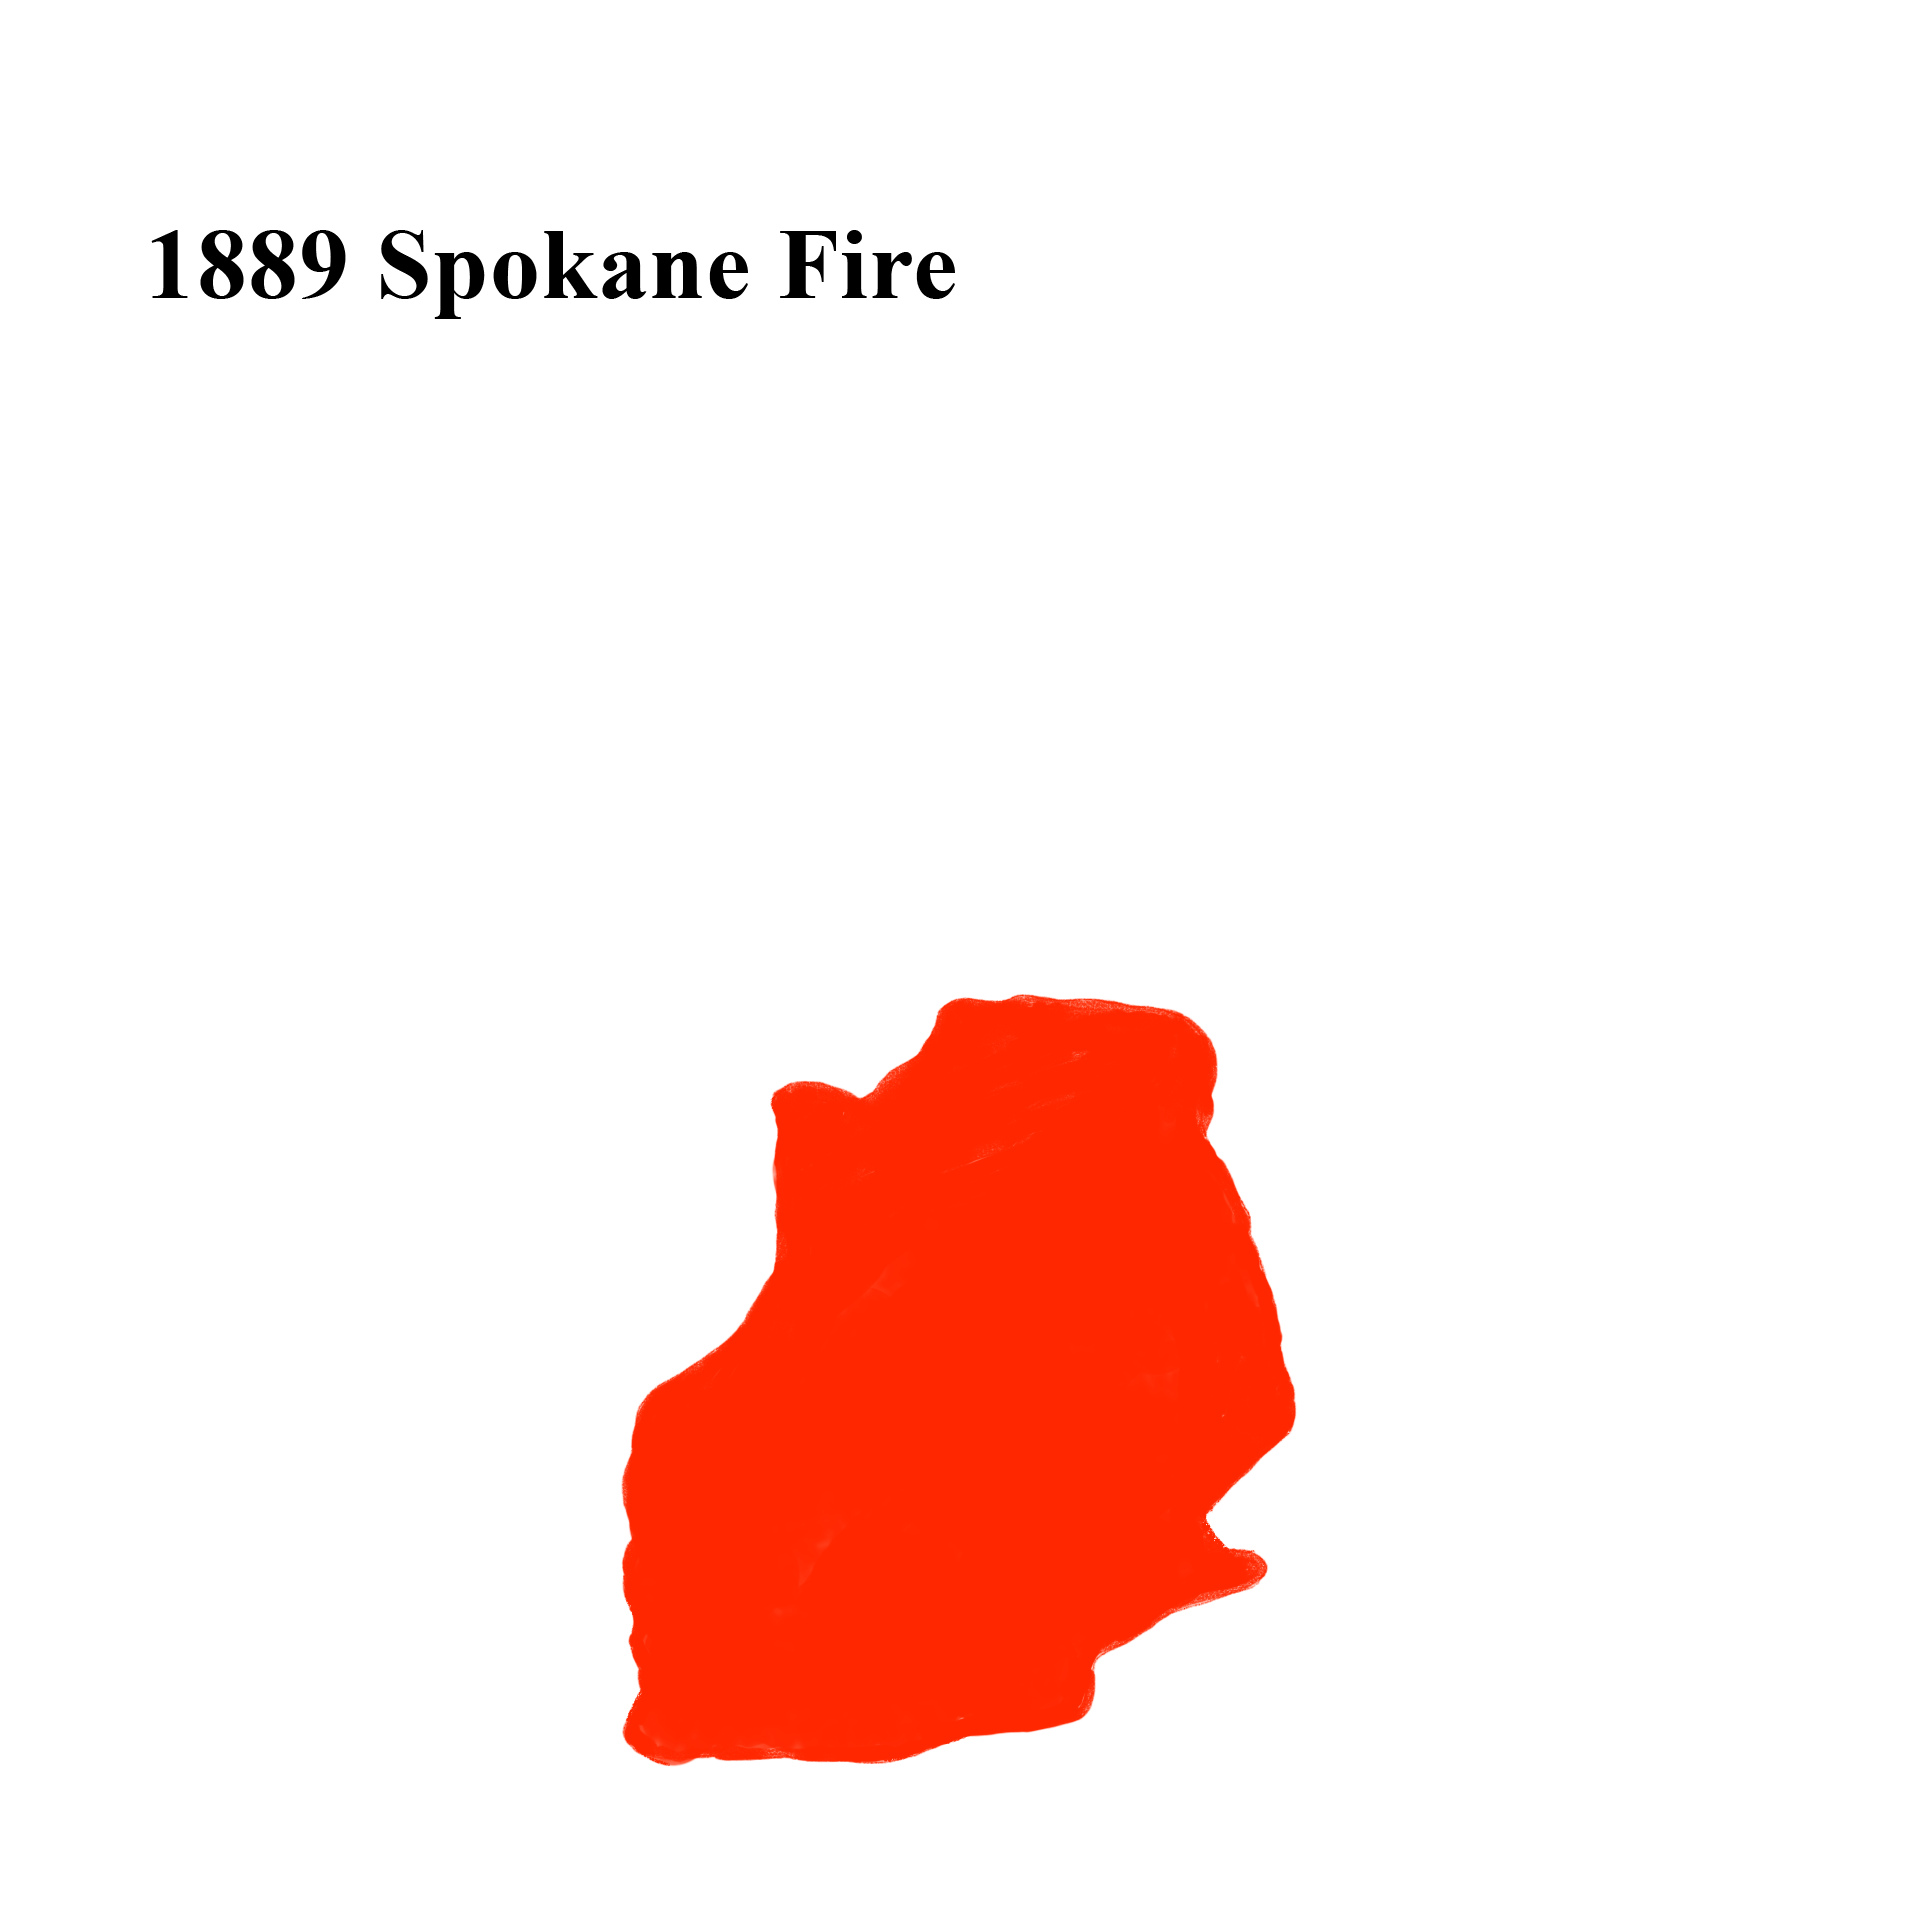
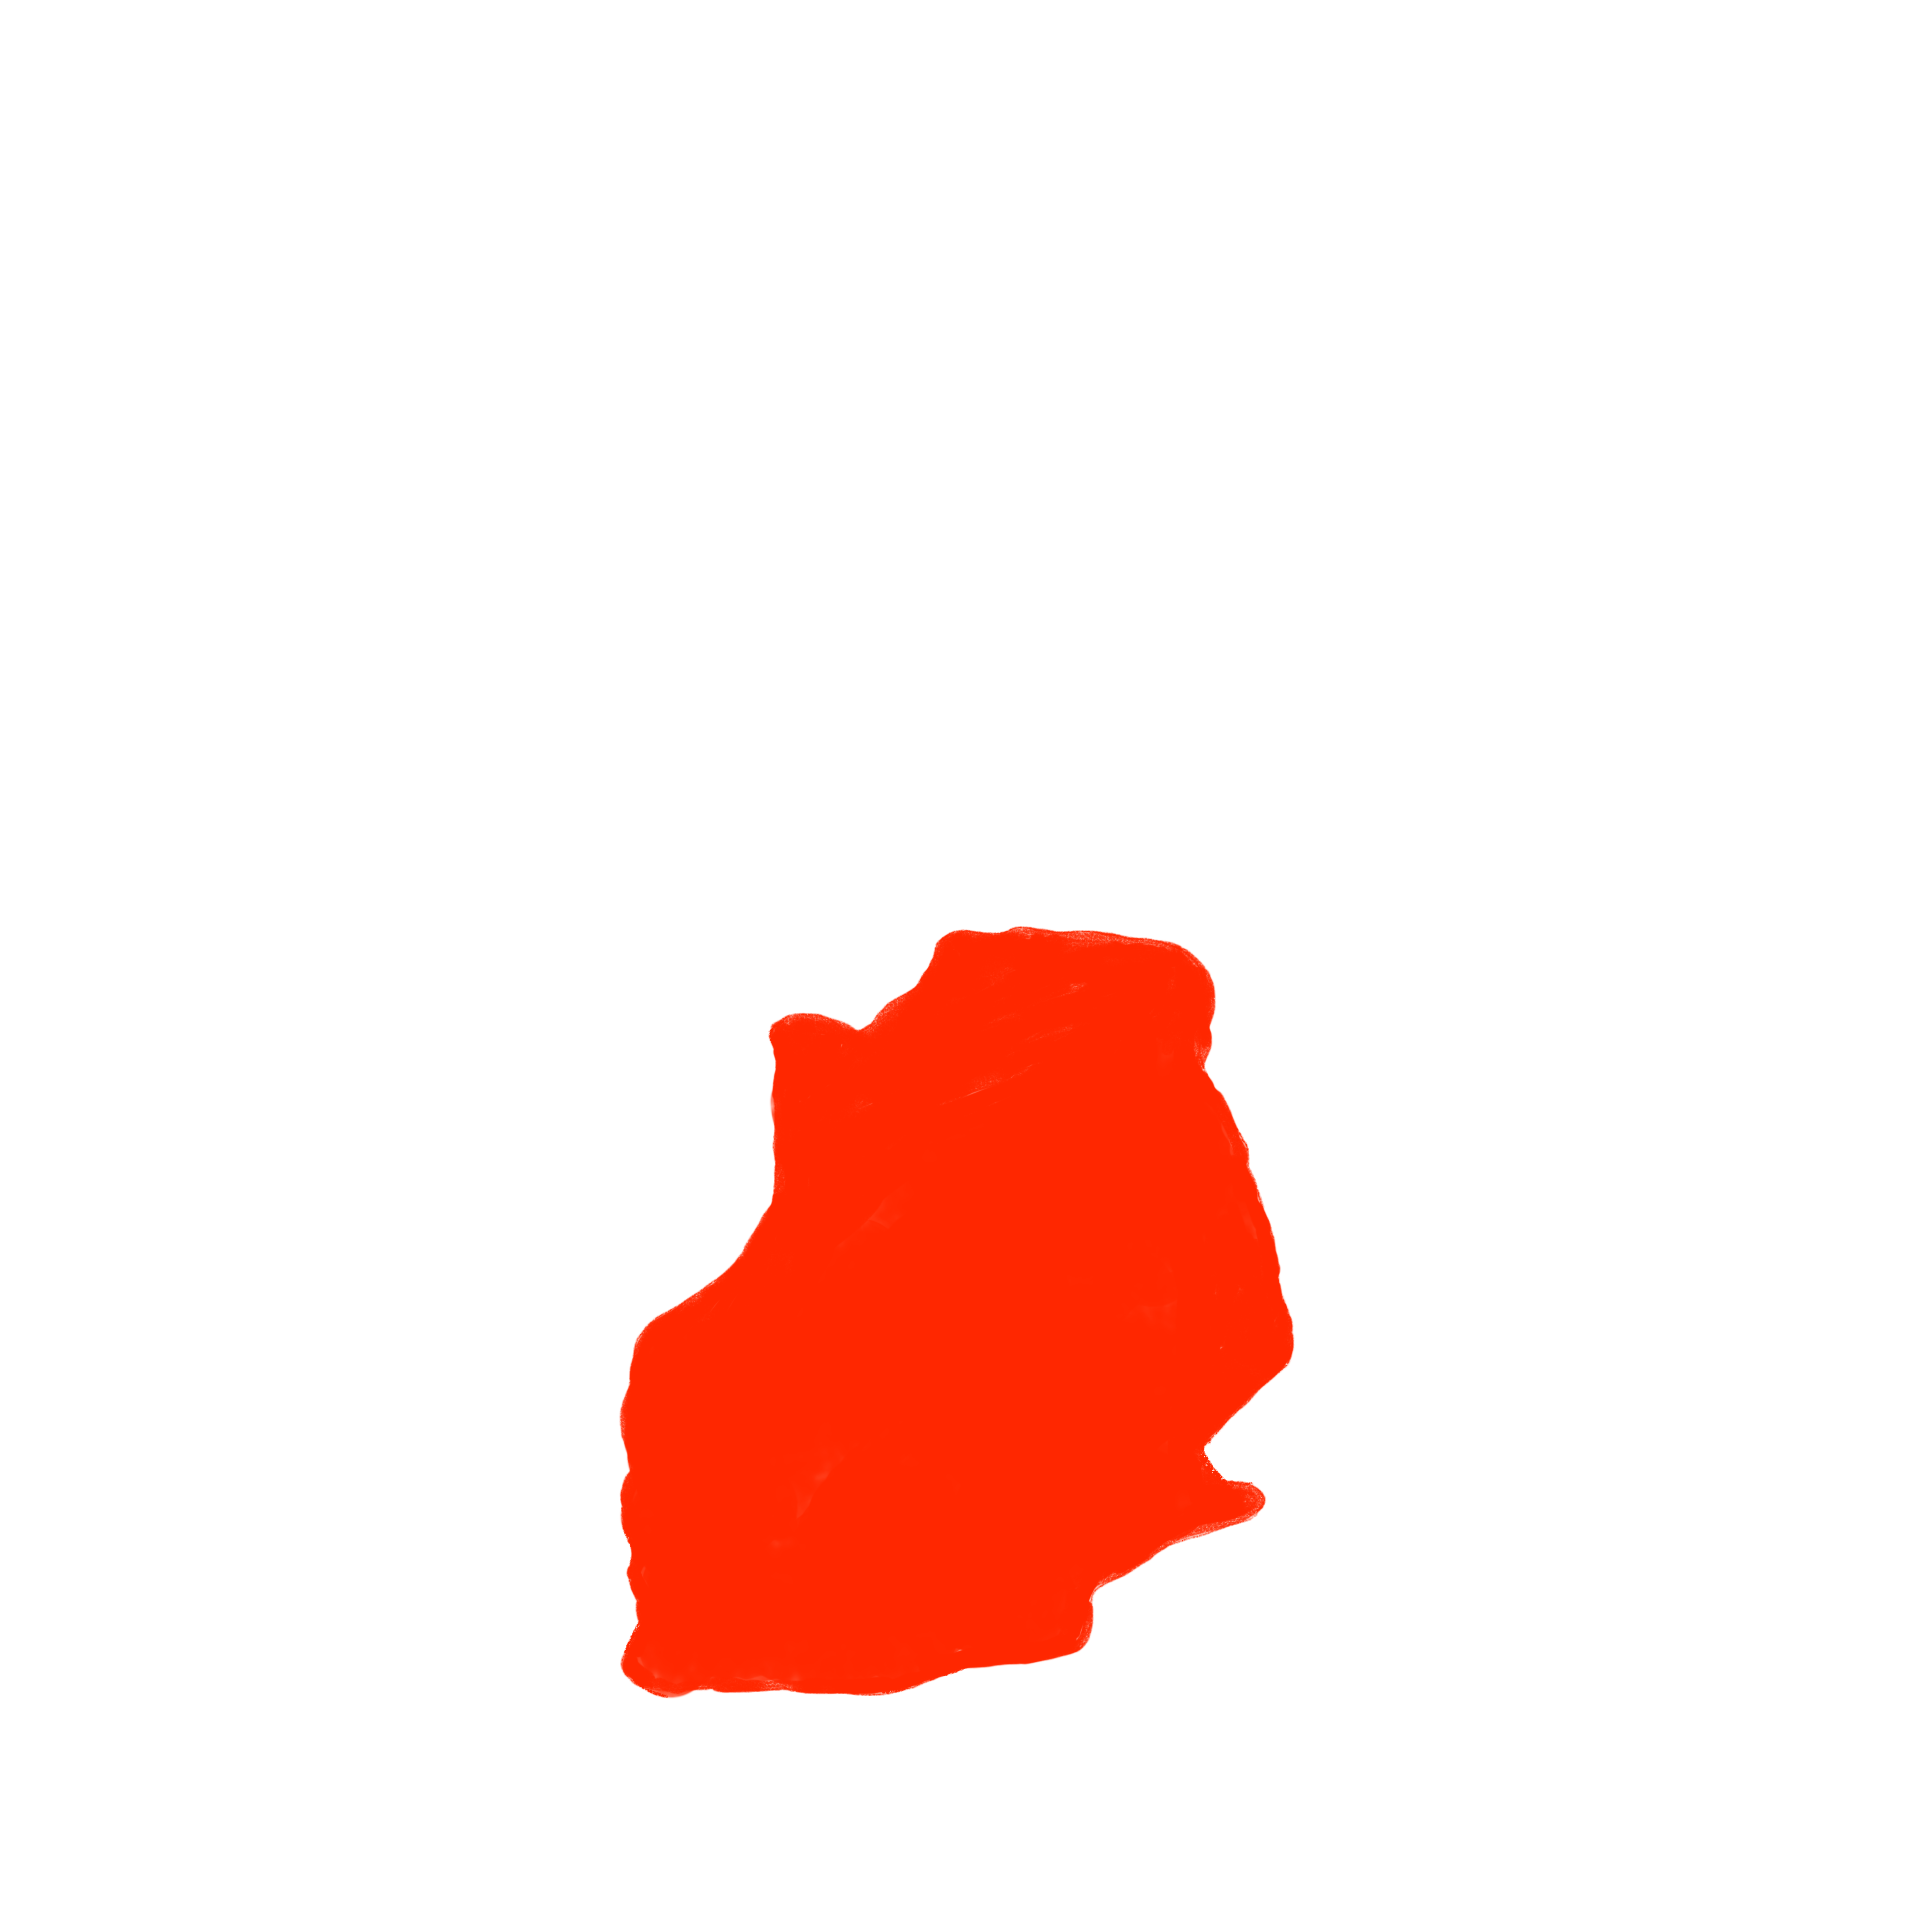
intervis 1 and 3

Changed region(s): [[0.3125, 0.4688, 0.6875, 0.9375], [0.0625, 0.125, 0.5, 0.1562], [0.3125, 0.625, 0.4062, 0.75]]

diff --git a/_essay/05-vis-three.md b/_essay/05-vis-three.md
@@ -1,0 +1,23 @@
+---
+title: "Incorporation"
+toc_title: "● ● ●"
+order: 5
+layout: inter_vis
+alt_text: "A timeline displaying the dates 1889-1906 with various incorporations of Dutch companies in Spokane represented by images of buildings moving across the timeline banner."
+---
+
+{% trigger type: image id: intervis_03_01,intervis_03_02 action: start %}
+{% trigger type: image id: intervis_03_04 action: start coordinates: 190,500 description: "Northwestern & Pacific Hypotheek Bank is incorporated in July 1898 as an Amsterdam-based mortgage bank operating in Spokane, Washington. The Spokane Fire will take place the following month." %}
+{% trigger type: image id: intervis_03_04 action: end coordinates: 190,500 description: "Northwestern & Pacific Hypotheek Bank is incorporated in July 1898 as an Amsterdam-based mortgage bank operating in Spokane, Washington. The Spokane Fire will take place the following month." %}
+{% trigger type: image id: intervis_03_03 action: start coordinates: 290,500 description: "The American National Trust Company and the Washington and Pacific Investment Company is incorporated by the same figures who founded the Hypotheek bank." %}
+{% trigger type: image id: intervis_03_03 action: end coordinates: 290,500 description: "The American National Trust Company and the Washington and Pacific Investment Company is incorporated by the same figures who founded the Hypotheek bank." %}
+{% trigger type: image id: intervis_03_04 action: start coordinates: 390,500 description: "The Amsterdamsch Trustee Kantoor is incorporated to establish the New Holland Bank in Spokane and manage the assets of the American National Trust Company." %}
+{% trigger type: image id: intervis_03_04 action: end coordinates: 390,500 description: "The Amsterdamsch Trustee Kantoor is incorporated to establish the New Holland Bank in Spokane and manage the assets of the American National Trust Company." %}
+{% trigger type: image id: intervis_03_03 action: start coordinates: 490,500 description: "The Amsterdamsch Trustee Kantoor engages in a reverse merger with the Washington Water Power Company, creating a monopoly of water power in Spokane, facilitated by the Great Northern Railway." %}
+{% trigger type: image id: intervis_03_03 action: end coordinates: 490,500 description: "The Amsterdamsch Trustee Kantoor engages in a reverse merger with the Washington Water Power Company, creating a monopoly of water power in Spokane, facilitated by the Great Northern Railway." %}
+{% trigger type: image id: intervis_03_04 action: start coordinates: 600,500 description: "The Phoenix Sawmill is established in Spokane as an Amsterdam Company, occupying 29 acres of land Spokane, which would expand as the company acquired neighboring mill property." %}
+{% trigger type: image id: intervis_03_04 action: end coordinates: 600,500 description: "The Phoenix Sawmill is established in Spokane as an Amsterdam Company, occupying 29 acres of land Spokane, which would expand as the company acquired neighboring mill property." %}
+{% trigger type: image id: intervis_03_03 action: start coordinates: 700,500 description: "The Spokane Flour Mill, or Spokane-Meelmolens, is incorporated as an Amsterdam company. The company would eventually establish a second mill in Pendleton Oregon, specifically for international export." %}
+{% trigger type: image id: intervis_03_03 action: end coordinates: 700,500 description: "The Spokane Flour Mill, or Spokane-Meelmolens, is incorporated as an Amsterdam company. The company would eventually establish a second mill in Pendleton Oregon, specifically for international export." %}
+{% trigger type: image id: intervis_03_04 action: start coordinates: 800,500 description: "The Phoenix Sawmill reorganizes as the American-based Phoenix Lumber Company and acquires 75,000 acres in Stevens County. The company first logs the land, then markets it as agricultural property, specifically targeting Dutch and Flemish buyers." %}
+{% trigger type: image id: all action: end %}

diff --git a/_essay/03-vis-two.md b/_essay/03-vis-two.md
@@ -1,17 +1,17 @@
 ---
-title: "Visualization Two"
+title: "Key Locations"
 toc_title: "● ●"
-order: 4
+order: 3
 layout: inter_vis
+alt_text: "A world map with the Atlantic Ocean in the center, with a small circle moving around to mark the locations of the Kimberley Mine in South Africa; Amsterdam, the Netherlands; St. Paul, Minnesota and Spokane, Washington."
 ---
 
 {% trigger type: image id: intervis_02_01 action: start %}
 {% trigger type: image id: intervis_02_02 action: start opacity: 90 coordinates: 800,765 description: "Kimberley Mines, Present-Day South Africa" %}
 {% trigger type: image id: intervis_02_02 action: end opacity: 90 coordinates: 800,765 description: "Kimberley Mines, Present-Day South Africa" %}
-{% trigger type: image id: intervis_02_02 action: start opacity: 90 coordinates: 700,300 description: "Amsterdam, the Capital of the Netherlands" %}
-{% trigger type: image id: intervis_02_02 action: end opacity: 90 coordinates: 700,300 description: "Amsterdam, the Capital of the Netherlands" %}
+{% trigger type: image id: intervis_02_02 action: start opacity: 90 coordinates: 700,300 description: "Amsterdam, capital of the Netherlands" %}
+{% trigger type: image id: intervis_02_02 action: end opacity: 90 coordinates: 700,300 description: "Amsterdam, capital of the Netherlands" %}
 {% trigger type: image id: intervis_02_02 action: start opacity: 90 coordinates: 210,350 description: "St. Paul, Minnesota, Home of the Great Northern Railway" %}
 {% trigger type: image id: intervis_02_02 action: end opacity: 90 coordinates: 210,350 description: "St. Paul, Minnesota, Home of the Great Northern Railway" %}
-{% trigger type: image id: intervis_02_02 action: start opacity: 90 coordinates: 130,340 description: "Spokane, Washington" %}
-{% trigger type: image id: intervis_02_02 action: end opacity: 90 coordinates: 130,340 description: "Spokane, Washington" %}
+{% trigger type: image id: intervis_02_02 action: start opacity: 90 coordinates: 110,340 description: "Spokane, Washington" %}
 {% trigger type: image id: all action: end %}

diff --git a/_essay/01-vis-one.md b/_essay/01-vis-one.md
@@ -1,0 +1,14 @@
+---
+title: "The Fire"
+toc_title: "●"
+order: 1
+layout: inter_vis
+alt_text: "A hand drawn map of downtown Spokane with a marker of the area impacted by the 1889 fire and then the properties that were subsequently acquired by the Northwestern & Pacific Hypotheek Bank."
+---
+
+{% trigger type: image id: intervis_01_01 action: start %}
+{% trigger type: image id: intervis_01_02 action: start opacity: 90 description: "Area destroyed by the 1889 Spokane Fire" %}
+{% trigger type: image id: intervis_01_02 action: end opacity: 90 description: "Area destroyed by the 1889 Spokane Fire" %}
+{% trigger type: image id: intervis_01_03 action: start opacity: 90 description: "Property acquired by the Amsterdam-based Northwestern & Pacific Hypotheek Bank by 1896" %}
+{% trigger type: image id: intervis_01_03 action: end opacity: 90 description: "Property acquired by the Amsterdam-based Northwestern & Pacific Hypotheek Bank by 1896" %}
+{% trigger type: image id: all action: end %}

diff --git a/_essay/09-vis-five.md b/_essay/09-vis-five.md
@@ -1,7 +1,7 @@
 ---
-title: "Visualization Three"
-toc_title: "● ● ●"
-order: 6
+title: "Liquidation"
+toc_title: "● ● ● ● ●"
+order: 9
 layout: inter_vis
 ---
 

diff --git a/_essay/06-inland.md b/_essay/06-inland.md
@@ -2,7 +2,7 @@
 title: "Colonialism in the Inland Empire"
 chapter: "Colonialism in the Inland Empire"
 chap_number: 3
-order: 5
+order: 6
 layout: essay-right
 ---
 

diff --git a/_essay/08-imitation.md b/_essay/08-imitation.md
@@ -2,7 +2,7 @@
 title: "Imitation and Identity"
 chapter: "Imitation and Identity"
 chap_number: 4
-order: 7
+order: 8
 layout: essay-right
 ---
 

diff --git a/_essay/07-vis-four.md b/_essay/07-vis-four.md
@@ -1,7 +1,7 @@
 ---
-title: "Visualization Four"
+title: "Imitation"
 toc_title: "● ● ● ●"
-order: 8
+order: 7
 layout: inter_vis
 ---
 

diff --git a/_essay/04-networks.md b/_essay/04-networks.md
@@ -2,7 +2,7 @@
 title: "Networks of Capital"
 chapter: "Networks of Capital"
 chap_number: 2
-order: 3
+order: 4
 layout: essay-right
 ---
 

diff --git a/_essay/02-introduction.md b/_essay/02-introduction.md
@@ -2,7 +2,7 @@
 title: "Introduction"
 chapter: "Introduction"
 chap_number: 1
-order: 1
+order: 2
 layout: essay-right
 ---
 

diff --git a/_essay/10-conclusion.md b/_essay/10-conclusion.md
@@ -2,7 +2,7 @@
 title: "Conclusion"
 chapter: "Conclusion"
 chap_number: 5
-order: 9
+order: 10
 layout: essay-right
 ---
 
